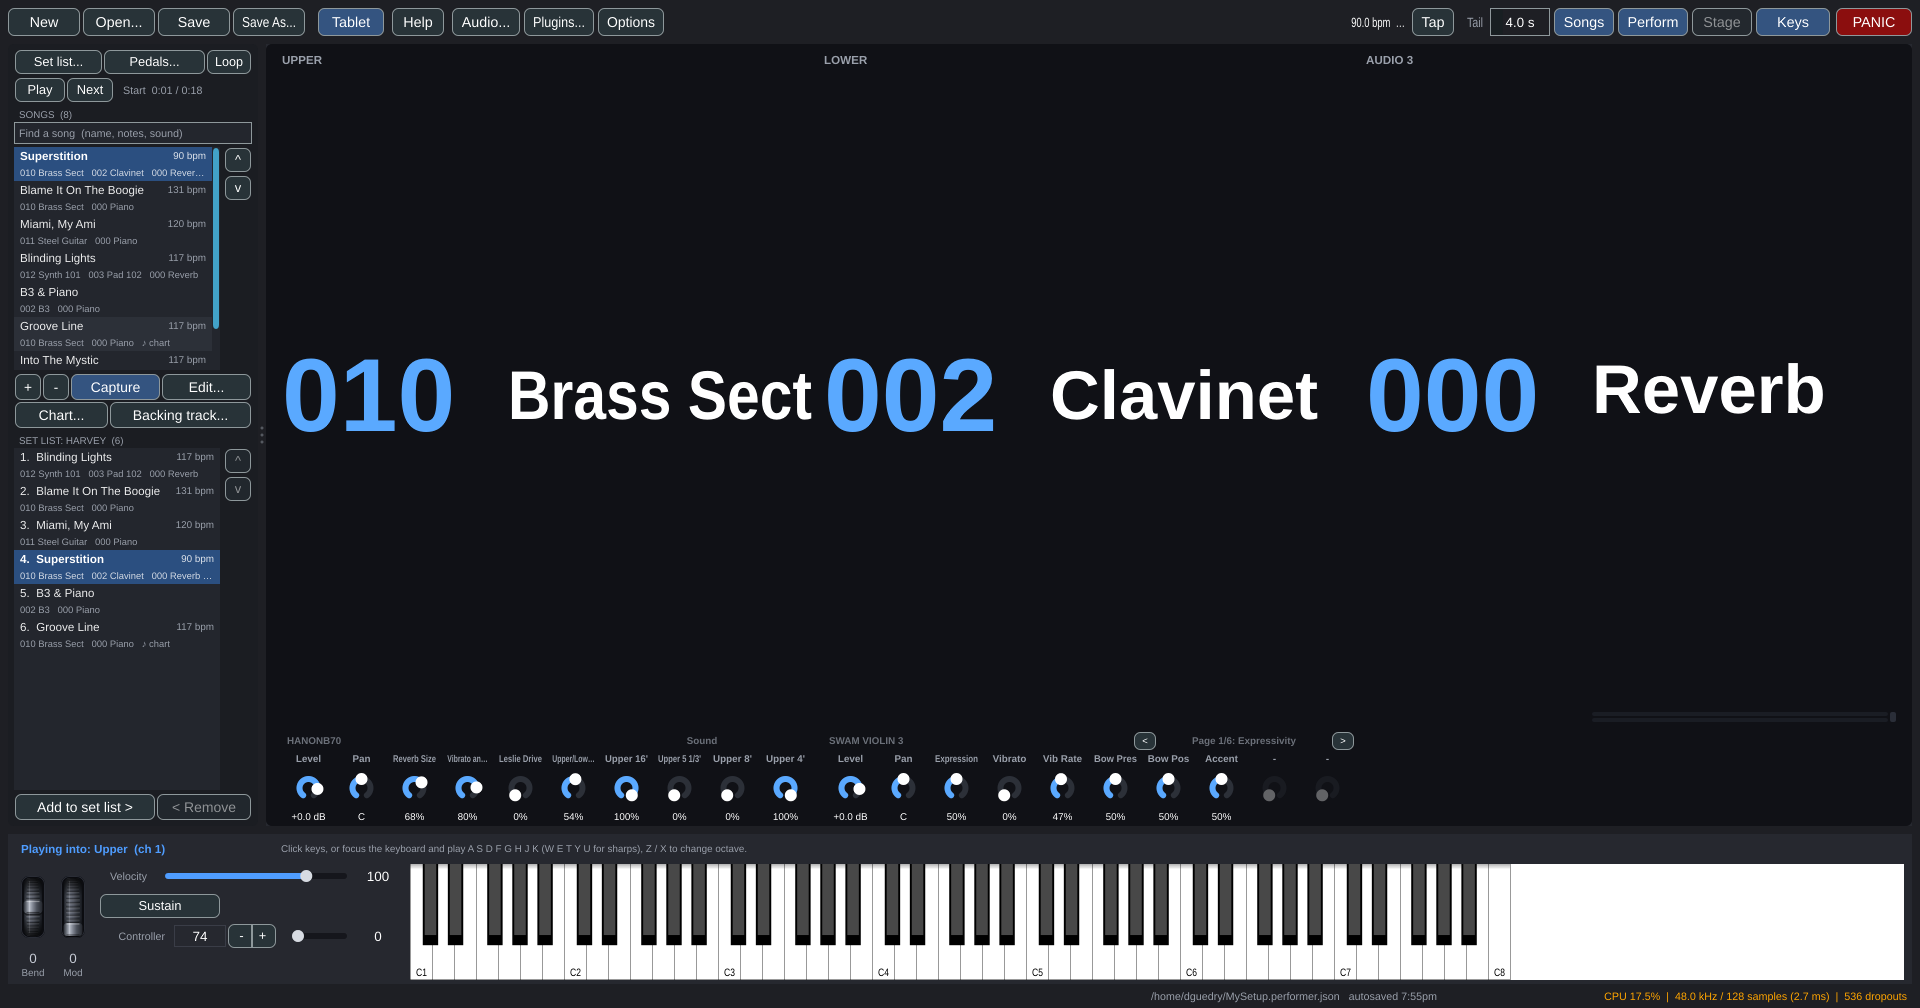
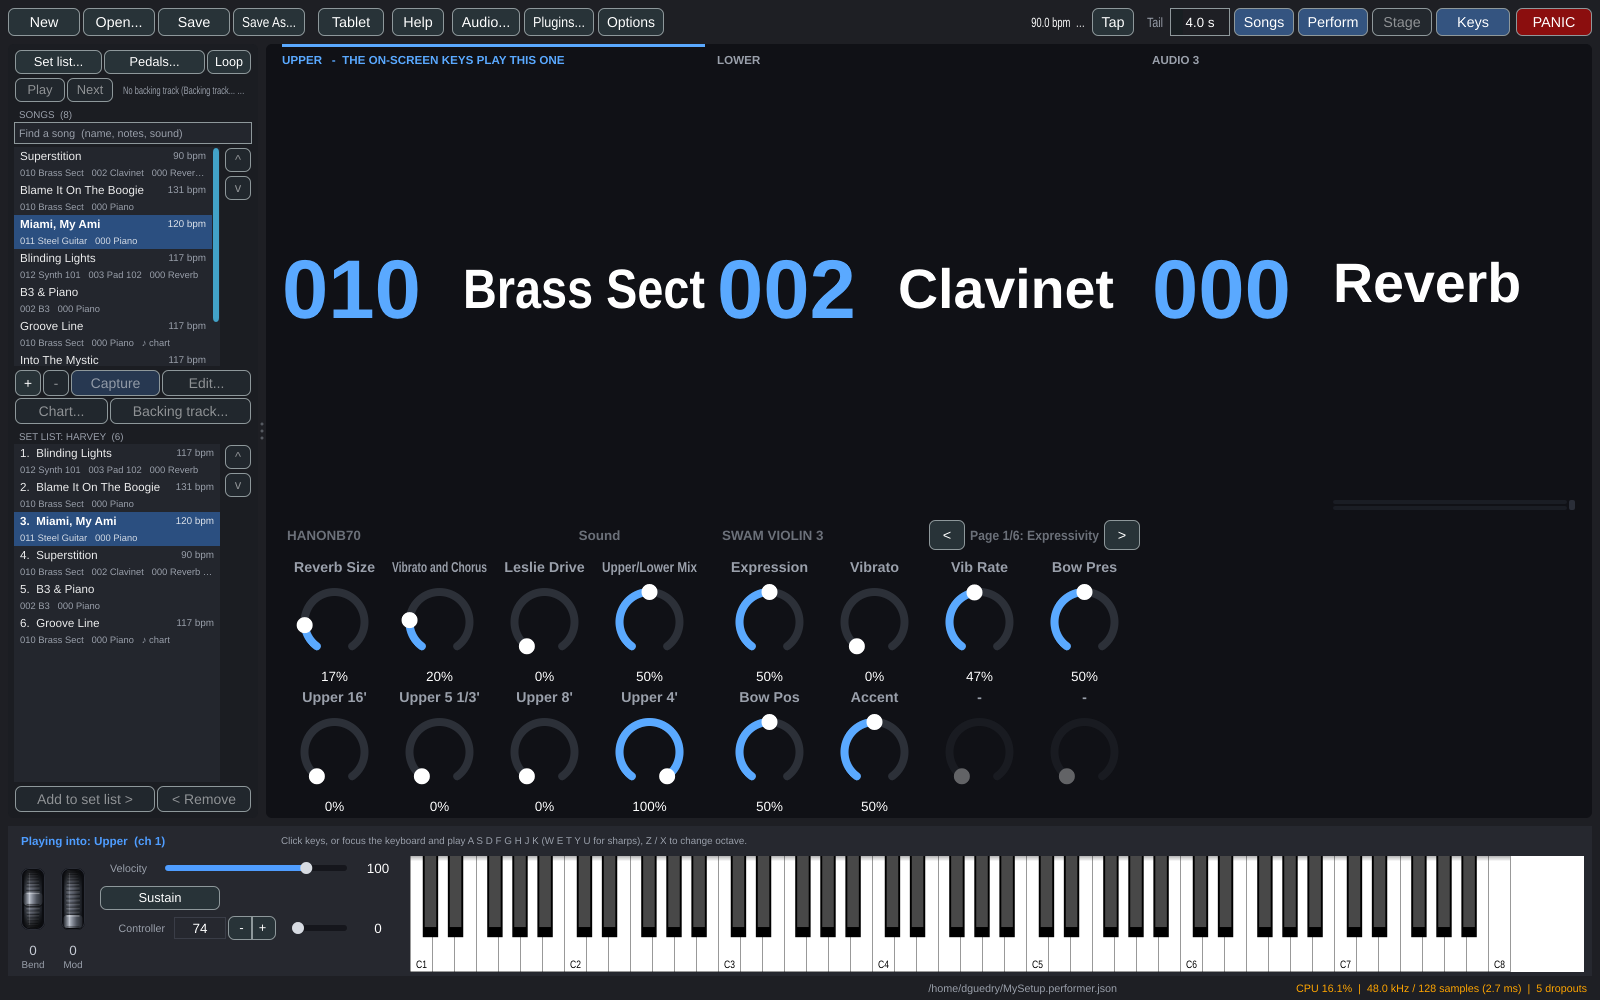
Perform: knobs made to be read from a stand, and a click on an input's readout gives the on-screen keys to it
With the window to itself the front panel grows to 300 px and lays the
page's eight knobs out in two rows of four, names and values in a larger
face; level and pan step aside there. The Inputs list is out of the way
in Perform, so the readout takes over its one job for the on-screen
keys: click an input and it says 'the on-screen keys play this one'.

diff --git a/Source/StagePanel.h b/Source/StagePanel.h
@@ -37,6 +37,20 @@ public:
     std::function<void()> onEdited;                 // a knob moved: the setup has changed
     std::function<void()> onHeightChanged;          // the panel appeared or went: lay the window out again
     std::function<void (int input, int program, int slot)> onOpenKnobs;   // right-click on a knob: the instrument's Knobs window
+    std::function<void (int input)> onSelectInput;  // a click on an input's readout: the on-screen keys play it (and the editing panes show it)
+    std::function<int()> selectedInput;             // which input that is now, for the readout to mark
+
+    /** The front panel grows with the window: in Perform, with the window to
+        itself, the knobs are made to be read and reached from a stand. */
+    int panelHeightNow() const                      { return getHeight() >= 560 ? 300 : panelHeight; }
+    bool isBig() const                              { return panelHeightNow() > panelHeight; }
+
+    void mouseDown (const juce::MouseEvent& e) override
+    {
+        if (e.mods.isPopupMenu() || e.getPosition().getY() >= readoutArea()) return;
+        for (const auto& [i, column] : columns())
+            if (column.contains (e.getPosition()) && onSelectInput) onSelectInput ((int) i);
+    }
 
     void paint (juce::Graphics& g) override
     {
@@ -55,10 +69,13 @@ public:
             const bool empty = def.isAudio() ? prog.name.isEmpty() && prog.effects.empty() : prog.isEmpty();
 
             // input name, small and dim: you know which manual is which, it is
-            // the program that needs reading
+            // the program that needs reading. The one the on-screen keys play is marked, and says so.
+            const bool chosen = selectedInput && selectedInput() == (int) i;
             g.setFont (juce::FontOptions (13.0f, juce::Font::bold));
-            g.setColour (juce::Colour (0xff9aa0ab));
-            g.drawText (def.name.toUpperCase(), cell.removeFromTop (16), juce::Justification::centredLeft, true);
+            g.setColour (chosen ? juce::Colour (0xff5aa9ff) : juce::Colour (0xff9aa0ab));
+            auto nameRow = cell.removeFromTop (16);
+            g.drawText (def.name.toUpperCase() + (chosen ? "   -  THE ON-SCREEN KEYS PLAY THIS ONE" : ""), nameRow, juce::Justification::centredLeft, true);
+            if (chosen) g.fillRect (column.withHeight (3).reduced (6, 0));
 
             // The number's size: as tall as the cell allows, and no wider than two fifths of it, three digits and all.
             const int big = juce::jmin (cell.getHeight() - 4, 190, (int) (cell.getWidth() * 0.22f));
@@ -138,11 +155,17 @@ private:
             set (level >= 0.0f ? level : 0.0);
         }
         void showValue()                            { value.setText (format ? format (slider.getValue()) : text, juce::dontSendNotification); }
+        void setBig (bool big)
+        {
+            name.setFont (juce::FontOptions (big ? 16.0f : 11.0f, juce::Font::bold));
+            value.setFont (juce::FontOptions (big ? 15.0f : 11.0f));
+        }
         void resized() override
         {
             auto r = getLocalBounds();
-            name.setBounds (r.removeFromTop (14));
-            value.setBounds (r.removeFromBottom (14));
+            const bool big = r.getHeight() >= 96;
+            name.setBounds (r.removeFromTop (big ? 22 : 14));
+            value.setBounds (r.removeFromBottom (big ? 20 : 14));
             slider.setBounds (r);
         }
         KnobSlider slider;
@@ -174,20 +197,41 @@ private:
         }
         void resized() override
         {
+            const bool big = getHeight() > 120;
+            pageLabel.setFont (juce::FontOptions (big ? 15.0f : 11.0f, juce::Font::bold));
+            slotLabel.setFont (juce::FontOptions (big ? 15.0f : 11.0f, juce::Font::bold));
+            for (auto& k : knobs) k->setBig (big);
             auto r = getLocalBounds().reduced (6, 2);
-            auto top = r.removeFromTop (18);
+            auto top = r.removeFromTop (big ? 30 : 18);
             if (pageLabel.isVisible())
             {
-                auto pages = top.removeFromRight (juce::jmin (220, top.getWidth() / 2));
-                pagePrev.setBounds (pages.removeFromLeft (22));
-                pageNext.setBounds (pages.removeFromRight (22));
+                auto pages = top.removeFromRight (juce::jmin (big ? 340 : 220, top.getWidth() / 2));
+                pagePrev.setBounds (pages.removeFromLeft (big ? 36 : 22));
+                pageNext.setBounds (pages.removeFromRight (big ? 36 : 22));
                 pageLabel.setBounds (pages);
                 top.removeFromRight (8);
             }
-            const int bw = juce::jmin (120, top.getWidth() / juce::jmax (1, (int) slotButtons.size()) - 4);    // each the same width
+            const int bw = juce::jmin (big ? 200 : 120, top.getWidth() / juce::jmax (1, (int) slotButtons.size()) - 4);    // each the same width
             for (auto& b : slotButtons) { b->setBounds (top.removeFromLeft (bw)); top.removeFromLeft (4); }
             slotLabel.setBounds (top);
-            r.removeFromTop (2);
+            r.removeFromTop (big ? 6 : 2);
+            if (big && knobs.size() > 2)
+            {
+                /* Made to be read from a stand: the page's eight knobs in two rows
+                   of four, as wide as the column allows. Level and pan step aside
+                   here; they are a knob's turn away on the small panel. */
+                knobs[0]->setVisible (false);
+                knobs[1]->setVisible (false);
+                const int rows = 2, perRow = 4;
+                const int rowH = r.getHeight() / rows, each = juce::jmin (220, r.getWidth() / perRow);
+                for (size_t k = 2; k < knobs.size(); ++k)
+                {
+                    const int n = (int) k - 2;
+                    knobs[k]->setVisible (true);
+                    knobs[k]->setBounds (r.getX() + (n % perRow) * each, r.getY() + (n / perRow) * rowH, each, rowH);
+                }
+                return;
+            }
             // The page's knobs come first; level and pan give way when the width will not hold them all.
             int shown = (int) knobs.size();
             while (shown > 2 && r.getWidth() / shown < 52) --shown;
@@ -208,7 +252,7 @@ private:
         juce::Label pageLabel, slotLabel;
     };
 
-    int readoutArea() const                         { return juce::jmax (readoutHeight, getHeight() - (anyPanel ? panelHeight : 0)); }
+    int readoutArea() const                         { return juce::jmax (readoutHeight, getHeight() - (anyPanel ? panelHeightNow() : 0)); }
 
     bool isLoading (int input, int program) const
     {
@@ -249,7 +293,7 @@ private:
         {
             bool placed = false;
             for (const auto& [i, column] : cols)
-                if ((int) i == p->input) { p->setBounds (column.withTop (readoutArea()).withHeight (panelHeight)); placed = true; }
+                if ((int) i == p->input) { p->setBounds (column.withTop (readoutArea()).withHeight (panelHeightNow())); placed = true; }
             p->setVisible (placed && anyPanel);
         }
         for (auto& p : panels) p->resized();

diff --git a/Source/MainComponent.cpp b/Source/MainComponent.cpp
@@ -2836,6 +2836,8 @@ MainComponent::MainComponent (Engine& e, PropertiesFile& s, const File& initialS
     // Stage display: the active program per input, big enough to read from a stand.
     stagePanel = std::make_unique<StagePanel> (engine);
     stagePanel->onEdited = [this] { markDirty(); };
+    stagePanel->onSelectInput = [this] (int i) { selectInput (i); };
+    stagePanel->selectedInput = [this] { return selectedInput; };
     stagePanel->onOpenKnobs = [this] (int in, int prog, int slot) { showKnobsFor (in, prog, slot); };
     stagePanel->onHeightChanged = [this] { resized(); };
     addChildComponent (stagePanel.get());

diff --git a/docs/MANUAL.md b/docs/MANUAL.md
@@ -1217,10 +1217,13 @@ first. Moving a knob moves the parameter in the plugin at once; a parameter
 moved in the plugin's own window moves the knob.
 
 **Perform** in the toolbar is the Stage view with the editing panes out of
-the way: the inputs, programs, instruments and mappings go, and the window
+the way: the inputs, programs, instruments and controls go, and the window
 is the readout -- the program in letters a foot high -- with the knobs under
-it and the set list beside it when **Songs** is on. For the laptop on a
-stand behind you, read from the keys. Everything is still there under the
+it, grown to be read and reached from a stand (the page's eight knobs in two
+rows of four; level and pan step aside here) and the set list beside it when
+**Songs** is on. The on-screen keys play one input: click an input's readout
+to make it that one -- it says *the on-screen keys play this one* -- since
+the Inputs list is out of the way. Everything is still there under the
 toolbar; **Perform** again brings the panes back.
 
 ## The tablet
